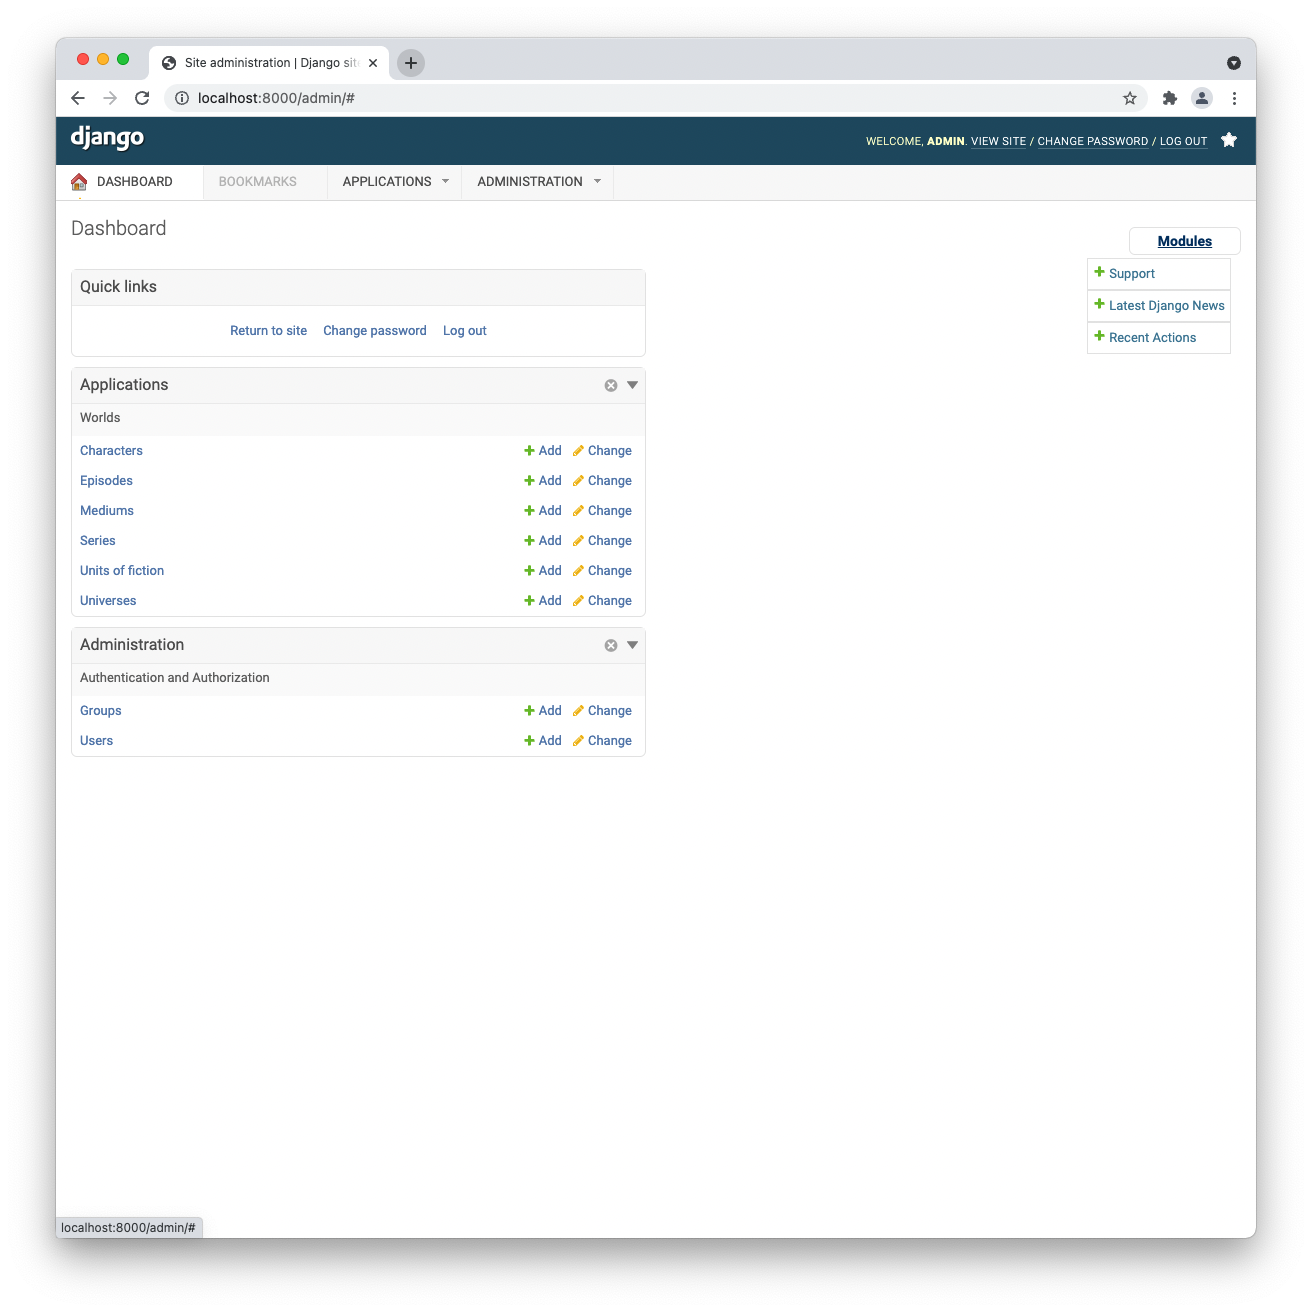
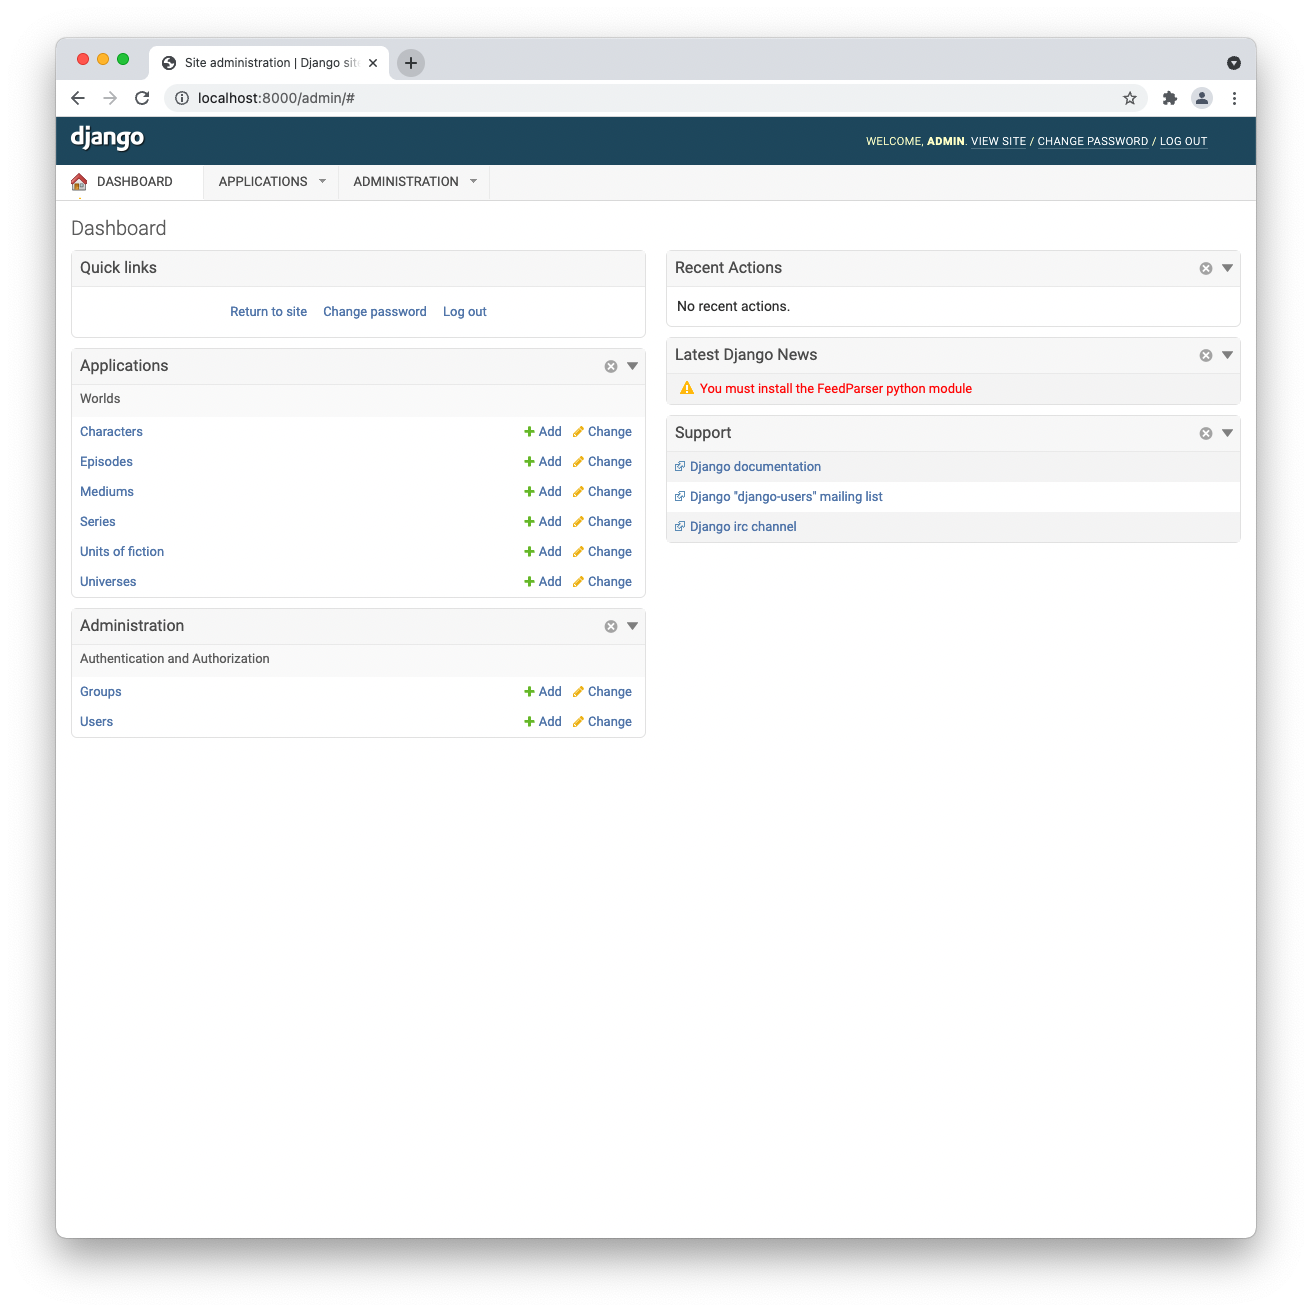
more

diff --git a/admindemo/dashboard.py b/admindemo/dashboard.py
@@ -26,8 +26,31 @@ class CustomIndexDashboard(Dashboard):
     """
     Custom index dashboard for admindemo.
     """
+#    columns = 3
     def init_with_context(self, context):
         site_name = get_admin_site_name(context)
+
+#        self.children.append(modules.DashboardModule(
+#            _('Foo'),
+#            pre_content="pre_content",
+#            children=[ "child1", "child2" ],
+#            post_content="post_content",
+#        ))
+
+#        self.children.append(modules.ModelList(
+#            _('new ModelList for models=worlds.*'),
+#            models=[ 'worlds.*' ],
+#        ))
+
+        self.children.append(modules.Group(
+            _('Group Module (accordion)'),
+            display='accordion',
+            children=[
+                modules.ModelList('Worlds', models=[ 'worlds.*' ]),
+                modules.RecentActions(_('Recent Actions'), 5)
+            ],
+        ))
+
         # append a link list module for "quick links"
         self.children.append(modules.LinkList(
             _('Quick links'),
@@ -35,18 +58,23 @@ class CustomIndexDashboard(Dashboard):
             draggable=False,
             deletable=False,
             collapsible=False,
+#            enabled=False,
+#            title_url='https://google.com/',
+#            pre_content="pre_content",
+#            post_content="post_content",
             children=[
                 [_('Return to site'), '/'],
                 [_('Change password'),
                  reverse('%s:password_change' % site_name)],
                 [_('Log out'), reverse('%s:logout' % site_name)],
-            ]
+            ],
         ))
 
         # append an app list module for "Applications"
         self.children.append(modules.AppList(
             _('Applications'),
             exclude=('django.contrib.*',),
+ #           title_url='https://google.com/',
         ))
 
         # append an app list module for "Administration"
@@ -84,7 +112,7 @@ class CustomIndexDashboard(Dashboard):
                     'url': 'irc://irc.freenode.net/django',
                     'external': True,
                 },
-            ]
+            ],
         ))
 
 

diff --git a/GALLERY2.md b/GALLERY2.md
@@ -4,10 +4,10 @@
 
 I'm using the following terminology taken from the Django docs:
 
-URL                       | Name
-------------------------- | ----------
-/admin/                   | Index
-/admin/APP/               | App Index
+URL                       | Name       | admin_tools
+------------------------- | ---------- | -------------------
+/admin/                   | Index      | Index Dashboard
+/admin/APP/               | App Index  | App Index Dashboard
 /admin/APP/MODEL/         | Changelist
 /admin/APP/MODEL/1/change | Change
 /admin/APP/MODEL/add      | Add
@@ -21,3 +21,56 @@ URL                       | Name
 ### Index page, populated
 
 ![](gallery2/2.png?raw=true)
+
+### Index page, with disabled Bookmarks
+
+![](gallery2/3.png?raw=true)
+
+### Index page, with enabled=False on Quick Links module
+
+![](gallery2/7.png?raw=true)
+
+### Index page, with right-side modules deleted by user
+
+![](gallery2/4.png?raw=true)
+
+### Index page, with modules dragged to different positions by user
+
+![](gallery2/5.png?raw=true)
+
+### Index page, with columns = 3
+
+![](gallery2/6.png?raw=true)
+
+### Index page, with title_url set on first two modules
+
+![](gallery2/8.png?raw=true)
+
+### Index page, with pre_content and post_content set
+
+![](gallery2/9.png?raw=true)
+
+### Index page, with new DashboardModule (pre_content, post_content, 2 text children)
+
+![](gallery2/10.png?raw=true)
+
+### Index page, with new ModuleList (models=worlds.*)
+
+![](gallery2/11.png?raw=true)
+
+### Index page, with Group module (display='tabs')
+
+![](gallery2/12.png?raw=true)
+
+### Index page, with Group module (display='stacked')
+
+![](gallery2/13.png?raw=true)
+
+### Index page, with Group module (display='accordion')
+
+![](gallery2/14.png?raw=true)
+
+### ...clicked on second child
+
+![](gallery2/15.png?raw=true)
+
